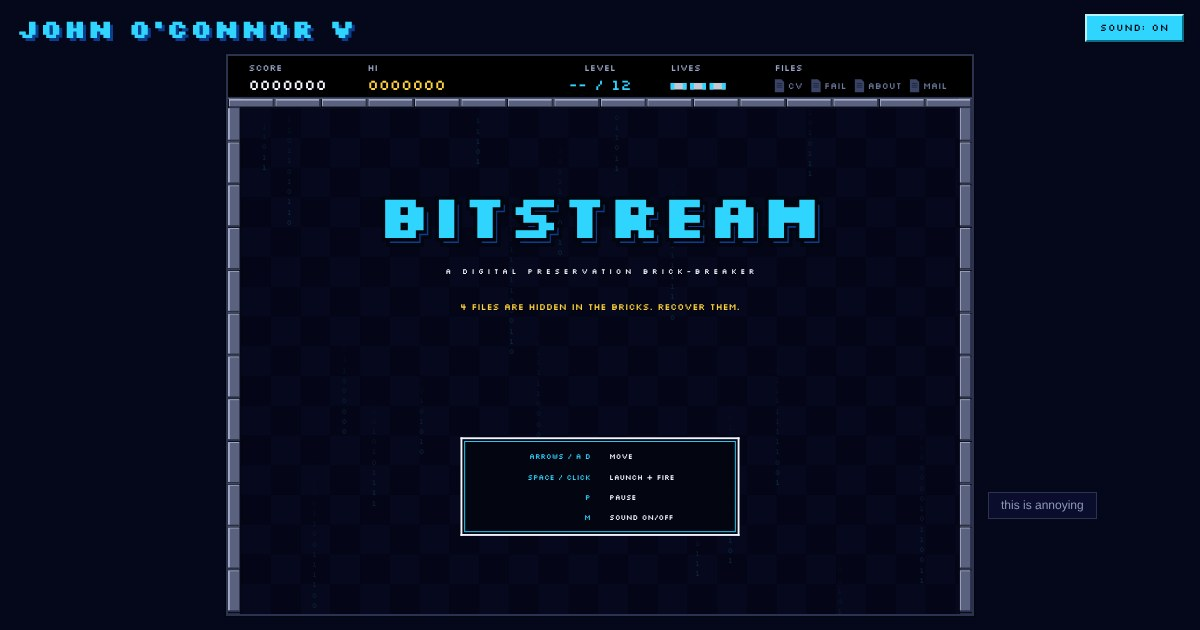
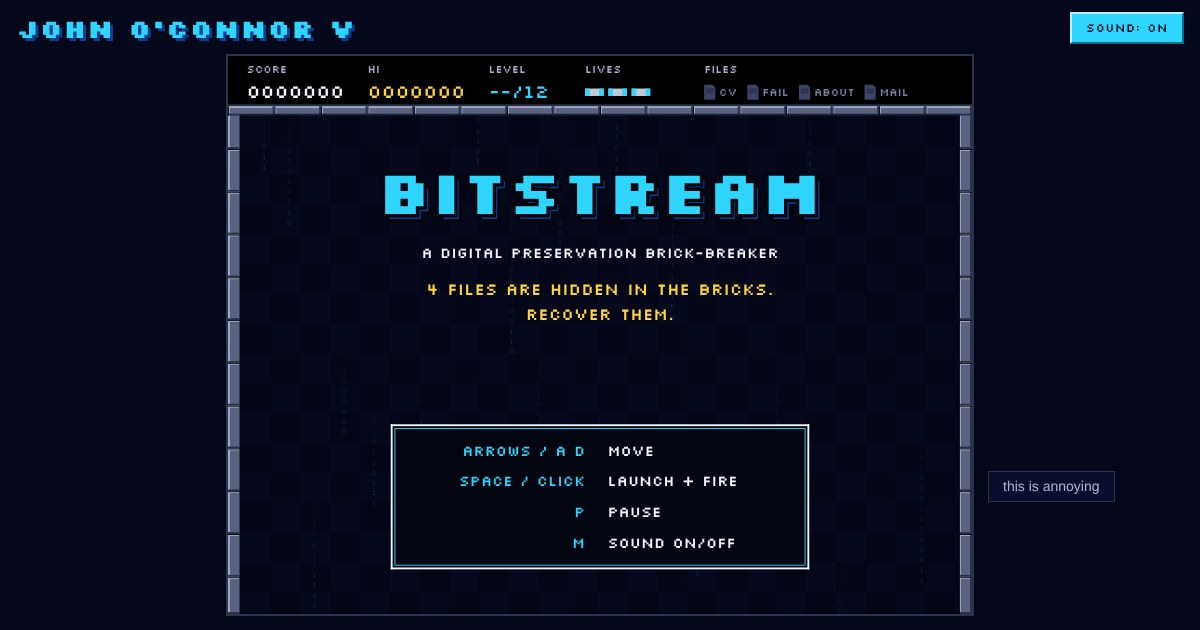
Make text bigger throughout for easier reading
- Top bar: values 16 -> 20 px, labels 10 -> 12 px, bigger icons; groups now
  run left to right so everything fits (bar is 54 px tall)
- Title screen: tagline, "4 files are hidden", "press space", continue line
  and the controls box are two to three times larger
- Level cards, power-up pop-ups, pause, game over and win screens, floating
  messages and power-up chips (now 78x22, file chips 112x24) all larger;
  long level names shrink to fit their card
- Page: buttons, "this is annoying", links, the file dialog, and the text on
  the CV and other pages are a size or two bigger

Claude-Session: https://claude.ai/code/session_01Bd3PE4hT8HQqiVT8L77KMB

diff --git a/js/game/render.js b/js/game/render.js
@@ -151,7 +151,7 @@ export class Renderer {
     ctx.fillRect(FIELD.x, C.NET_Y - 1, FIELD.w, 4);
     ctx.fillStyle = '#c9d9ff';
     ctx.fillRect(FIELD.x, C.NET_Y - 1, FIELD.w, 1);
-    text(ctx, 'BACKUP', FIELD.x + 6, C.NET_Y - 9, 8, '#9fbcff', 'left', true);
+    text(ctx, 'BACKUP', FIELD.x + 6, C.NET_Y - 10, 10, '#9fbcff', 'left', true);
   }
 
   drawPaddle(g) {
@@ -235,15 +235,15 @@ export class Renderer {
         ctx.fillStyle = blinkOn ? WHITE : INK;
         ctx.fillRect(x - 2, y - 2, p.w + 4, p.h + 4);
         bevelRect(ctx, x, y, p.w, p.h, GOLD, '#fff3b0', '#a37800', 2);
-        drawDocIcon(ctx, x + 5, y + 3, 9, p.h - 6, WHITE);
-        text(ctx, page ? page.pill : 'FILE', x + p.w / 2 + 6, p.y + 0.5, 8, INK);
+        drawDocIcon(ctx, x + 6, y + 4, 11, p.h - 8, WHITE);
+        text(ctx, page ? page.pill : 'FILE', x + p.w / 2 + 7, p.y + 0.5, 11, INK);
       } else {
         const def = POWERUPS[p.kind];
         const col = def.good ? def.color : RED;
         ctx.fillStyle = INK;
         ctx.fillRect(x - 1, y - 1, p.w + 2, p.h + 2);
         bevelRect(ctx, x, y, p.w, p.h, col, lighten(col, 0.55), darken(col, 0.45), 2);
-        text(ctx, def.label, p.x, p.y + 0.5, 8, !def.good || isDark(col) ? WHITE : INK);
+        text(ctx, def.label, p.x, p.y + 0.5, 11, !def.good || isDark(col) ? WHITE : INK);
       }
     }
   }
@@ -291,7 +291,7 @@ export class Renderer {
     const ctx = this.ctx;
     for (const q of g.fx.texts) {
       if (q.life - q.t < 0.3 && Math.floor(q.t * 16) % 2) continue;
-      text(ctx, q.str, Math.round(q.x), Math.round(q.y), 8, q.color, 'center', true);
+      text(ctx, q.str, Math.round(q.x), Math.round(q.y), 12, q.color, 'center', true);
     }
   }
 
@@ -350,30 +350,30 @@ export class Renderer {
 
   // ------------------------------------------------------------ HUD + screens
 
-  // Two rows: small labels on top, big values underneath.
+  // Two rows: labels on top, big values underneath, in left-aligned groups.
   drawHud(g) {
     const ctx = this.ctx;
-    const LY = 13;
-    const VY = 32;
-    label(ctx, 'SCORE', 22, LY);
-    text(ctx, String(g.score).padStart(7, '0'), 22, VY, 16, WHITE, 'left');
+    const LY = 15;
+    const VY = 39;
+    label(ctx, 'SCORE', 20, LY);
+    text(ctx, String(g.score).padStart(7, '0'), 20, VY, 20, WHITE, 'left');
     label(ctx, 'HI', 150, LY);
-    text(ctx, String(Math.max(g.hi, g.score)).padStart(7, '0'), 150, VY, 16, GOLD, 'left');
-    label(ctx, 'LEVEL', 400, LY, 'center');
-    const lvl = g.mode === 'title' ? '-- / 12' : `${String(g.levelIndex + 1).padStart(2, '0')} / 12`;
-    text(ctx, lvl, 400, VY, 16, CYAN, 'center');
-    label(ctx, 'LIVES', 476, LY);
+    text(ctx, String(Math.max(g.hi, g.score)).padStart(7, '0'), 150, VY, 20, GOLD, 'left');
+    label(ctx, 'LEVEL', 280, LY);
+    const lvl = g.mode === 'title' ? '--/12' : `${String(g.levelIndex + 1).padStart(2, '0')}/12`;
+    text(ctx, lvl, 280, VY, 20, CYAN, 'left');
+    label(ctx, 'LIVES', 384, LY);
     const lives = g.mode === 'title' ? C.START_LIVES : g.lives;
     const shown = Math.min(lives, 4);
-    for (let i = 0; i < shown; i++) drawMiniPaddle(ctx, 476 + i * 21, VY);
-    if (lives > shown) text(ctx, `+${lives - shown}`, 476 + shown * 21, VY, 10, WHITE, 'left');
-    label(ctx, 'FILES', 588, LY);
-    let x = 588;
+    for (let i = 0; i < shown; i++) drawMiniPaddle(ctx, 384 + i * 25, VY);
+    if (lives > shown) text(ctx, `+${lives - shown}`, 384 + shown * 25, VY, 12, WHITE, 'left');
+    label(ctx, 'FILES', 512, LY);
+    let x = 512;
     for (const p of this.pages) {
       const on = g.found.has(p.id);
-      drawDocIcon(ctx, x, VY - 7, 10, 14, on ? GOLD : '#3a4466');
-      text(ctx, p.hud, x + 14, VY, 10, on ? GOLD : '#6b779c', 'left');
-      x += 14 + ctx.measureText(p.hud).width + 9;
+      drawDocIcon(ctx, x, VY - 8, 12, 16, on ? GOLD : '#3a4466');
+      text(ctx, p.hud, x + 16, VY, 12, on ? GOLD : '#7783a8', 'left');
+      x += 16 + ctx.measureText(p.hud).width + 11;
     }
   }
 
@@ -385,21 +385,22 @@ export class Renderer {
   drawTitle(g) {
     const ctx = this.ctx;
     this.dim(0.3);
-    bigText(ctx, 'BITSTREAM', W / 2, 176, 66, CYAN);
-    text(ctx, 'A   D I G I T A L   P R E S E R V A T I O N   B R I C K - B R E A K E R', W / 2, 232, 8, WHITE, 'center', true);
-    text(ctx, '4 FILES ARE HIDDEN IN THE BRICKS. RECOVER THEM.', W / 2, 270, 10, GOLD, 'center', true);
-    if (blink(g.t)) text(ctx, 'PRESS SPACE OR CLICK TO START', W / 2, 336, 12, WHITE, 'center', true);
-    if (g.maxLevel > 1) text(ctx, `PRESS C TO CONTINUE FROM LEVEL ${String(g.maxLevel).padStart(2, '0')}`, W / 2, 364, 10, CYAN, 'center', true);
+    bigText(ctx, 'BITSTREAM', W / 2, 150, 66, CYAN);
+    text(ctx, 'A DIGITAL PRESERVATION BRICK-BREAKER', W / 2, 212, 16, WHITE, 'center', true);
+    text(ctx, '4 FILES ARE HIDDEN IN THE BRICKS.', W / 2, 252, 18, GOLD, 'center', true);
+    text(ctx, 'RECOVER THEM.', W / 2, 278, 18, GOLD, 'center', true);
+    if (blink(g.t)) text(ctx, 'PRESS SPACE OR CLICK TO START', W / 2, 330, 22, WHITE, 'center', true);
+    if (g.maxLevel > 1) text(ctx, `PRESS C TO CONTINUE FROM LEVEL ${String(g.maxLevel).padStart(2, '0')}`, W / 2, 364, 16, CYAN, 'center', true);
     const rows = [
       ['ARROWS / A D', 'MOVE'],
       ['SPACE / CLICK', 'LAUNCH + FIRE'],
       ['P', 'PAUSE'],
       ['M', 'SOUND ON/OFF'],
     ];
-    panel(ctx, 250, 410, 300, 106);
+    panel(ctx, 175, 396, 450, 156);
     rows.forEach(([k, v], i) => {
-      text(ctx, k, 390, 431 + i * 22, 8, CYAN, 'right');
-      text(ctx, v, 410, 431 + i * 22, 8, WHITE, 'left');
+      text(ctx, k, 384, 425 + i * 33, 16, CYAN, 'right');
+      text(ctx, v, 408, 425 + i * 33, 16, WHITE, 'left');
     });
   }
 
@@ -408,47 +409,48 @@ export class Renderer {
     const late = b.life - b.t < 0.3;
     if (late && Math.floor(b.t * 16) % 2) return; // blink out
     if (b.kind === 'level') {
-      const y = 360;
-      panel(ctx, 150, y - 50, 500, 100);
-      text(ctx, b.title, W / 2, y - 26, 12, CYAN, 'center', true);
-      bigText(ctx, b.sub, W / 2, y + 6, b.sub.length > 24 ? 18 : 26, WHITE);
-      text(ctx, 'SPACE / CLICK TO LAUNCH', W / 2, y + 36, 8, DIM, 'center');
+      const y = 362;
+      panel(ctx, 130, y - 66, 540, 132);
+      text(ctx, b.title, W / 2, y - 40, 16, CYAN, 'center', true);
+      bigText(ctx, b.sub, W / 2, y - 3, 28, WHITE, 496);
+      text(ctx, 'SPACE / CLICK TO LAUNCH', W / 2, y + 40, 14, '#b5c0de', 'center', true);
     } else if (b.kind === 'clear') {
-      bigText(ctx, b.title, W / 2, 328, 30, GOLD);
-      text(ctx, b.sub, W / 2, 372, 12, WHITE, 'center', true);
+      bigText(ctx, b.title, W / 2, 326, 34, GOLD);
+      text(ctx, b.sub, W / 2, 374, 18, WHITE, 'center', true);
     } else if (b.kind === 'life') {
-      text(ctx, b.title, W / 2, 400, 16, '#ff7d8c', 'center', true);
-      text(ctx, b.sub, W / 2, 426, 8, '#c9d6ee', 'center', true);
+      text(ctx, b.title, W / 2, 396, 22, '#ff7d8c', 'center', true);
+      text(ctx, b.sub, W / 2, 428, 14, '#c9d6ee', 'center', true);
     } else if (b.kind === 'pill') {
-      text(ctx, b.title, W / 2, 470, 10, b.color, 'center', true);
-      text(ctx, b.sub, W / 2, 490, 8, WHITE, 'center', true);
+      text(ctx, b.title, W / 2, 464, 16, b.color, 'center', true);
+      text(ctx, b.sub, W / 2, 490, 14, WHITE, 'center', true);
     }
   }
 
   drawPaused(g) {
     this.dim(g.pauseReason === 'file' ? 0.75 : 0.62);
     if (g.pauseReason === 'file') return; // the "file recovered" dialog sits on top
-    bigText(this.ctx, 'PAUSED', W / 2, 288, 44, WHITE);
-    if (blink(g.t)) text(this.ctx, 'PRESS P TO RESUME', W / 2, 340, 12, CYAN, 'center', true);
+    bigText(this.ctx, 'PAUSED', W / 2, 286, 48, WHITE);
+    if (blink(g.t)) text(this.ctx, 'PRESS P TO RESUME', W / 2, 346, 20, CYAN, 'center', true);
   }
 
   drawGameOver(g) {
     const ctx = this.ctx;
     this.dim(0.72);
-    bigText(ctx, 'CHECKSUM MISMATCH', W / 2, 248, 32, RED);
-    text(ctx, 'GAME OVER', W / 2, 292, 12, '#ff9aa6', 'center', true);
-    text(ctx, `SCORE ${g.score}`, W / 2, 330, 12, WHITE, 'center', true);
-    if (blink(g.t)) text(ctx, `SPACE / CLICK: CONTINUE FROM LEVEL ${String(g.levelIndex + 1).padStart(2, '0')}`, W / 2, 390, 10, CYAN, 'center', true);
-    text(ctx, '(YOUR SCORE STARTS OVER)', W / 2, 412, 8, DIM, 'center');
+    bigText(ctx, 'CHECKSUM MISMATCH', W / 2, 236, 36, RED);
+    text(ctx, 'GAME OVER', W / 2, 288, 18, '#ff9aa6', 'center', true);
+    text(ctx, `SCORE ${g.score}`, W / 2, 330, 20, WHITE, 'center', true);
+    if (blink(g.t)) text(ctx, `SPACE / CLICK: CONTINUE FROM LEVEL ${String(g.levelIndex + 1).padStart(2, '0')}`, W / 2, 392, 16, CYAN, 'center', true);
+    text(ctx, '(YOUR SCORE STARTS OVER)', W / 2, 422, 14, '#b5c0de', 'center', true);
   }
 
   drawWin(g) {
     const ctx = this.ctx;
     this.dim(0.45);
-    bigText(ctx, 'ARCHIVE PRESERVED', W / 2, 228, 36, GOLD);
-    text(ctx, 'ALL 12 LEVELS CLEARED. EVERY BIT ACCOUNTED FOR.', W / 2, 276, 10, WHITE, 'center', true);
-    text(ctx, `FINAL SCORE ${g.score}`, W / 2, 316, 14, CYAN, 'center', true);
-    if (blink(g.t)) text(ctx, 'SPACE / CLICK TO PLAY AGAIN', W / 2, 388, 10, WHITE, 'center', true);
+    bigText(ctx, 'ARCHIVE PRESERVED', W / 2, 222, 40, GOLD);
+    text(ctx, 'ALL 12 LEVELS CLEARED.', W / 2, 276, 18, WHITE, 'center', true);
+    text(ctx, 'EVERY BIT ACCOUNTED FOR.', W / 2, 302, 18, WHITE, 'center', true);
+    text(ctx, `FINAL SCORE ${g.score}`, W / 2, 346, 22, CYAN, 'center', true);
+    if (blink(g.t)) text(ctx, 'SPACE / CLICK TO PLAY AGAIN', W / 2, 404, 18, WHITE, 'center', true);
   }
 }
 
@@ -483,13 +485,18 @@ function text(ctx, str, x, y, size, color, align = 'center', shadow = false) {
 }
 
 function label(ctx, str, x, y, align = 'left') {
-  text(ctx, str, x, y, 10, '#9ba7ca', align);
+  text(ctx, str, x, y, 12, '#a4afd0', align);
 }
 
 // Big headline: flat face colour, dark outline, hard offset shadow.
-function bigText(ctx, str, x, y, size, face) {
+function bigText(ctx, str, x, y, size, face, maxW = W - 90) {
   ctx.save();
   ctx.font = `700 ${size}px ${FONT}`;
+  const wide = ctx.measureText(str).width;
+  if (wide > maxW) {
+    size = Math.floor((size * maxW) / wide);
+    ctx.font = `700 ${size}px ${FONT}`;
+  }
   ctx.textAlign = 'center';
   ctx.textBaseline = 'middle';
   ctx.lineJoin = 'miter';
@@ -682,10 +689,10 @@ function drawDocIcon(ctx, x, y, w, h, color) {
 
 function drawMiniPaddle(ctx, x, y) {
   ctx.fillStyle = '#c3c9d4';
-  ctx.fillRect(x, y - 3, 17, 7);
+  ctx.fillRect(x, y - 4, 20, 8);
   ctx.fillStyle = CYAN;
-  ctx.fillRect(x, y - 3, 4, 7);
-  ctx.fillRect(x + 13, y - 3, 4, 7);
+  ctx.fillRect(x, y - 4, 5, 8);
+  ctx.fillRect(x + 15, y - 4, 5, 8);
 }
 
 function pixelStar(ctx, x, y, color) {

diff --git a/css/site.css b/css/site.css
@@ -15,14 +15,14 @@
   --dim: #8b96b8;
   --pixel: 'Silkscreen', 'Courier New', monospace;
   --ui: Verdana, Tahoma, Geneva, sans-serif;
-  --side-w: 170px;   /* the column beside the game that holds "this is annoying" */
+  --side-w: 190px;   /* the column beside the game that holds "this is annoying" */
   --side-gap: 16px;
-  --panel-h: 64px;   /* height of that panel when it sits under the game instead */
+  --panel-h: 72px;   /* height of that panel when it sits under the game instead */
 }
 
 * { box-sizing: border-box; }
 html, body { margin: 0; }
-body { background: var(--bg); color: var(--text); font: 13px/1.6 var(--ui); }
+body { background: var(--bg); color: var(--text); font: 15px/1.6 var(--ui); }
 a { color: var(--cyan); }
 a:hover { color: #fff; }
 :focus-visible { outline: 2px solid var(--gold); outline-offset: 2px; }
@@ -47,8 +47,8 @@ a.wordmark:hover { color: #7fe4ff; }
   border: 2px solid;
   border-color: #b9f1ff #0b6d88 #0b6d88 #b9f1ff;
   border-radius: 0;
-  padding: 7px 13px;
-  font: 400 10px/1 var(--pixel);
+  padding: 8px 14px;
+  font: 400 12px/1 var(--pixel);
   letter-spacing: .6px;
   color: var(--ink);
   background: var(--cyan);
@@ -123,9 +123,9 @@ body.home {
   appearance: none;
   border: 1px solid var(--line);
   border-radius: 0;
-  padding: 5px 12px;
-  font: 12px/1.2 var(--ui);
-  color: var(--dim);
+  padding: 6px 14px;
+  font: 14px/1.2 var(--ui);
+  color: #a9b4d4;
   background: var(--panel);
   cursor: pointer;
   white-space: nowrap;
@@ -137,8 +137,8 @@ body.home {
   display: flex;
   flex-direction: column;
   align-items: flex-start;
-  gap: 6px;
-  font: 12px/1.4 var(--ui);
+  gap: 8px;
+  font: 14px/1.4 var(--ui);
   white-space: nowrap;
 }
 .links.shown { visibility: visible; }
@@ -156,12 +156,12 @@ body.layout-bottom .links { flex-direction: row; gap: 18px; }
   .topbar { height: 48px; padding: 0 10px; }
   .wordmark { font-size: 14px; line-height: 1.15; white-space: normal; }
   #stage { padding: 0 8px 8px; }
-  body.layout-bottom .links { gap: 12px; font-size: 11px; }
+  body.layout-bottom .links { gap: 12px; font-size: 12px; }
 }
 @media (max-height: 520px) {
   .topbar { height: 40px; }
   .wordmark { font-size: 16px; }
-  .annoying { padding: 3px 12px; font-size: 11px; }
+  .annoying { padding: 4px 12px; font-size: 12px; }
 }
 
 /* Phones held sideways: header in a column on the left, game, then the panel on the right. */
@@ -173,6 +173,8 @@ body.layout-bottom .links { flex-direction: row; gap: 18px; }
   .top-buttons { flex-direction: column; align-items: flex-start; }
   #stage { padding: 0 8px 0 0; }
   .play { grid-template-columns: auto var(--side-w); align-items: center; }
+  .annoying, .links { font-size: 12px; }
+  .btn { font-size: 10px; }
   .play-spacer { display: none; }
 }
 
@@ -195,7 +197,7 @@ body.layout-bottom .links { flex-direction: row; gap: 18px; }
   box-shadow: 0 0 0 2px var(--ink), 8px 8px 0 0 rgba(0, 0, 0, .65);
 }
 .dlg-titlebar {
-  font: 11px/1 var(--pixel);
+  font: 13px/1 var(--pixel);
   letter-spacing: 2px;
   color: var(--ink);
   background: var(--gold);
@@ -213,10 +215,10 @@ body.layout-bottom .links { flex-direction: row; gap: 18px; }
     var(--gold);
 }
 .dlg-file { font: 700 22px/1.1 var(--pixel); color: #fff; text-shadow: 2px 2px 0 var(--shadow); word-break: break-all; }
-.dlg-desc { color: var(--dim); margin-top: 4px; }
+.dlg-desc { color: #a9b4d4; margin-top: 4px; font-size: 15px; }
 .dlg-buttons { display: flex; gap: 12px; justify-content: center; flex-wrap: wrap; padding: 16px 20px 8px; }
-.dlg-buttons .btn { font-size: 11px; padding: 9px 14px; }
-.dlg-hint { text-align: center; font: 8px/1.4 var(--pixel); letter-spacing: 1px; color: var(--dim); padding: 4px 10px 14px; }
+.dlg-buttons .btn { font-size: 13px; padding: 10px 16px; }
+.dlg-hint { text-align: center; font: 10px/1.4 var(--pixel); letter-spacing: 1px; color: #a9b4d4; padding: 4px 10px 14px; }
 @media (max-width: 560px) {
   .dlg-body { padding: 14px 14px 4px; }
   .dlg-file { font-size: 16px; }
@@ -236,7 +238,7 @@ body.layout-bottom .links { flex-direction: row; gap: 18px; }
   border-bottom: 2px solid var(--line);
 }
 .page-head .wordmark { font-size: 22px; }
-.page-head .file-name { font: 10px/1 var(--pixel); color: var(--gold); letter-spacing: 1.5px; display: block; margin-top: 8px; }
+.page-head .file-name { font: 12px/1 var(--pixel); color: var(--gold); letter-spacing: 1.5px; display: block; margin-top: 8px; }
 .panel {
   border: 2px solid var(--line);
   background: var(--panel);
@@ -245,7 +247,7 @@ body.layout-bottom .links { flex-direction: row; gap: 18px; }
 }
 .page h1 { font: 700 26px/1.2 var(--pixel); margin: 0 0 6px; color: #fff; text-shadow: 3px 3px 0 var(--shadow); }
 .page h2 {
-  font: 700 13px/1.3 var(--pixel);
+  font: 700 15px/1.3 var(--pixel);
   letter-spacing: 1.5px;
   color: var(--cyan);
   margin: 26px 0 10px;
@@ -256,17 +258,17 @@ body.layout-bottom .links { flex-direction: row; gap: 18px; }
 .page .lede { color: var(--dim); margin: 0; }
 .page ul { padding-left: 20px; }
 .page li { margin: 4px 0; }
-.entry { display: grid; grid-template-columns: 110px 1fr; gap: 4px 16px; margin: 10px 0; }
-.entry .when { color: var(--gold); font: 10px/1.9 var(--pixel); letter-spacing: .5px; }
+.entry { display: grid; grid-template-columns: 136px 1fr; gap: 4px 16px; margin: 10px 0; }
+.entry .when { color: var(--gold); font: 12px/1.9 var(--pixel); letter-spacing: .5px; }
 .entry .what strong { color: #fff; }
 .entry .what span { color: var(--dim); }
 @media (max-width: 560px) {
   .panel { padding: 18px 16px; }
   .entry { grid-template-columns: 1fr; gap: 0; }
 }
-.edit-note { border: 1px dashed var(--gold); color: var(--gold); padding: 8px 12px; font-size: 12px; margin: 0 0 14px; }
-.page-foot { margin-top: 22px; text-align: center; font: 8px/1.6 var(--pixel); letter-spacing: 1px; color: #6f7a9c; }
-.email-box { font: 700 16px/1.4 var(--pixel); color: #fff; letter-spacing: .5px; }
+.edit-note { border: 1px dashed var(--gold); color: var(--gold); padding: 8px 12px; font-size: 14px; margin: 0 0 14px; }
+.page-foot { margin-top: 22px; text-align: center; font: 10px/1.6 var(--pixel); letter-spacing: 1px; color: #6f7a9c; }
+.email-box { font: 700 18px/1.4 var(--pixel); color: #fff; letter-spacing: .5px; }
 
 /* ---------------------------------------------------------------- printing the CV: plain black on white */
 @media print {

diff --git a/js/game/constants.js b/js/game/constants.js
@@ -2,7 +2,7 @@
 // the renderer scales it to whatever size the canvas ends up on screen.
 export const W = 800;
 export const H = 600;
-export const HUD_H = 46;           // top bar with score, level, lives and files
+export const HUD_H = 54;           // top bar with score, level, lives and files
 export const WALL = 14;
 export const FIELD = { x: WALL, y: HUD_H + 10, w: W - WALL * 2, h: H - HUD_H - 10 };
 export const BRICK_TOP = FIELD.y + 36;
@@ -21,9 +21,9 @@ export const RAMP_TIME = 75;           // seconds for the ball to ramp from star
 export const MAX_BALLS = 9;
 
 export const NET_Y = 586;              // where the BACKUP barrier sits
-export const PILL_W = 64;
-export const FILE_PILL_W = 88;
-export const PILL_H = 18;
+export const PILL_W = 78;
+export const FILE_PILL_W = 112;
+export const PILL_H = 22;
 export const PILL_SPEED = 150;
 export const MAX_FALLING_PILLS = 3;
 export const LASER_SPEED = 900;
